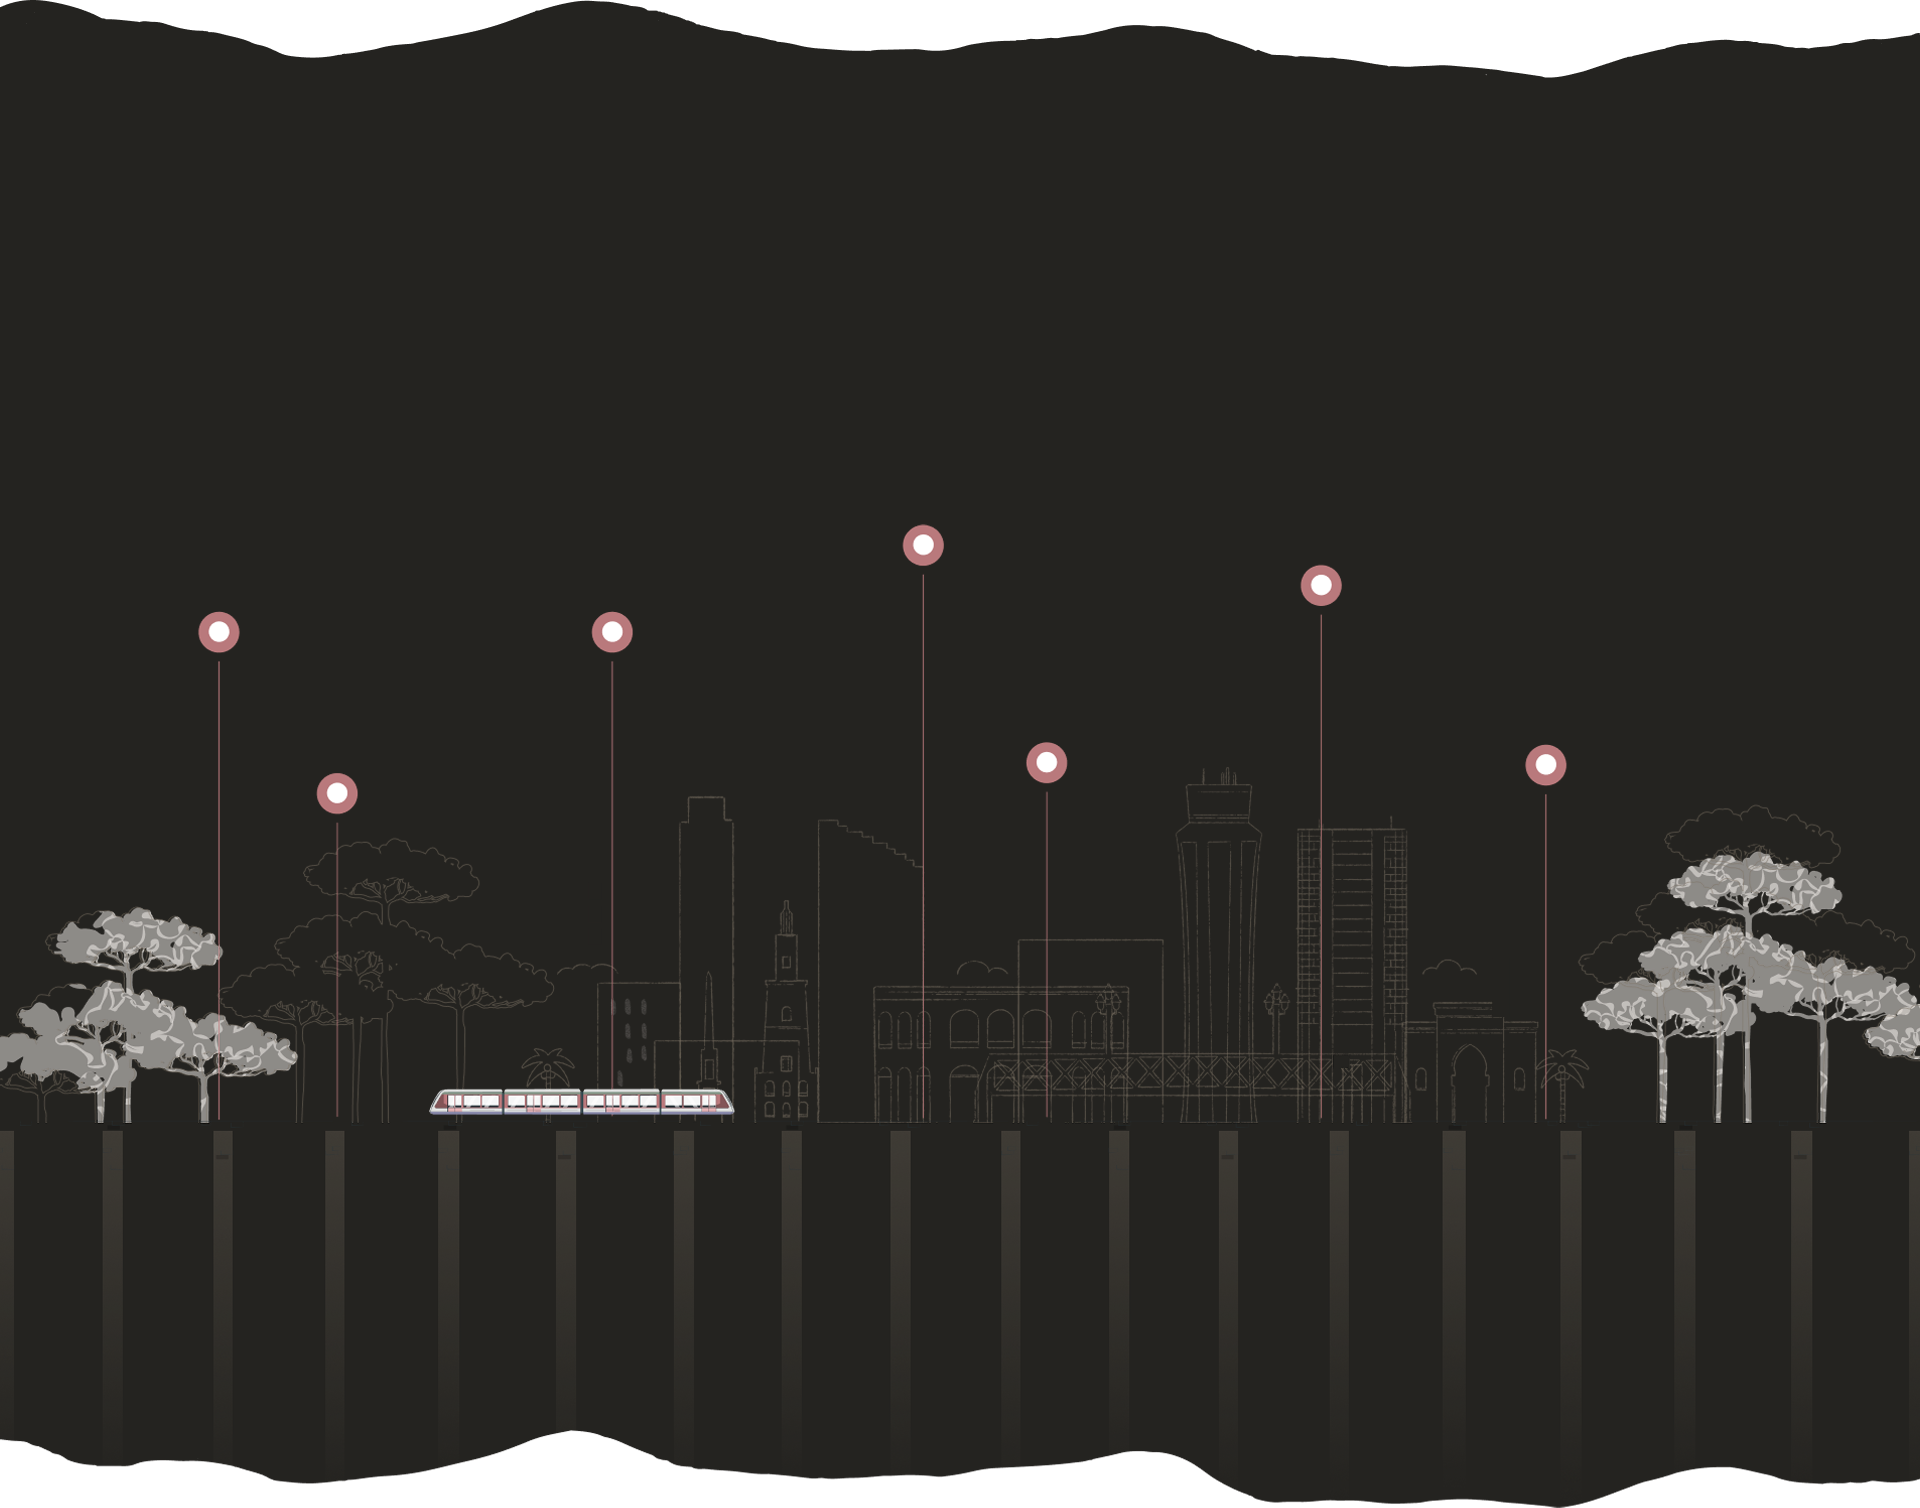
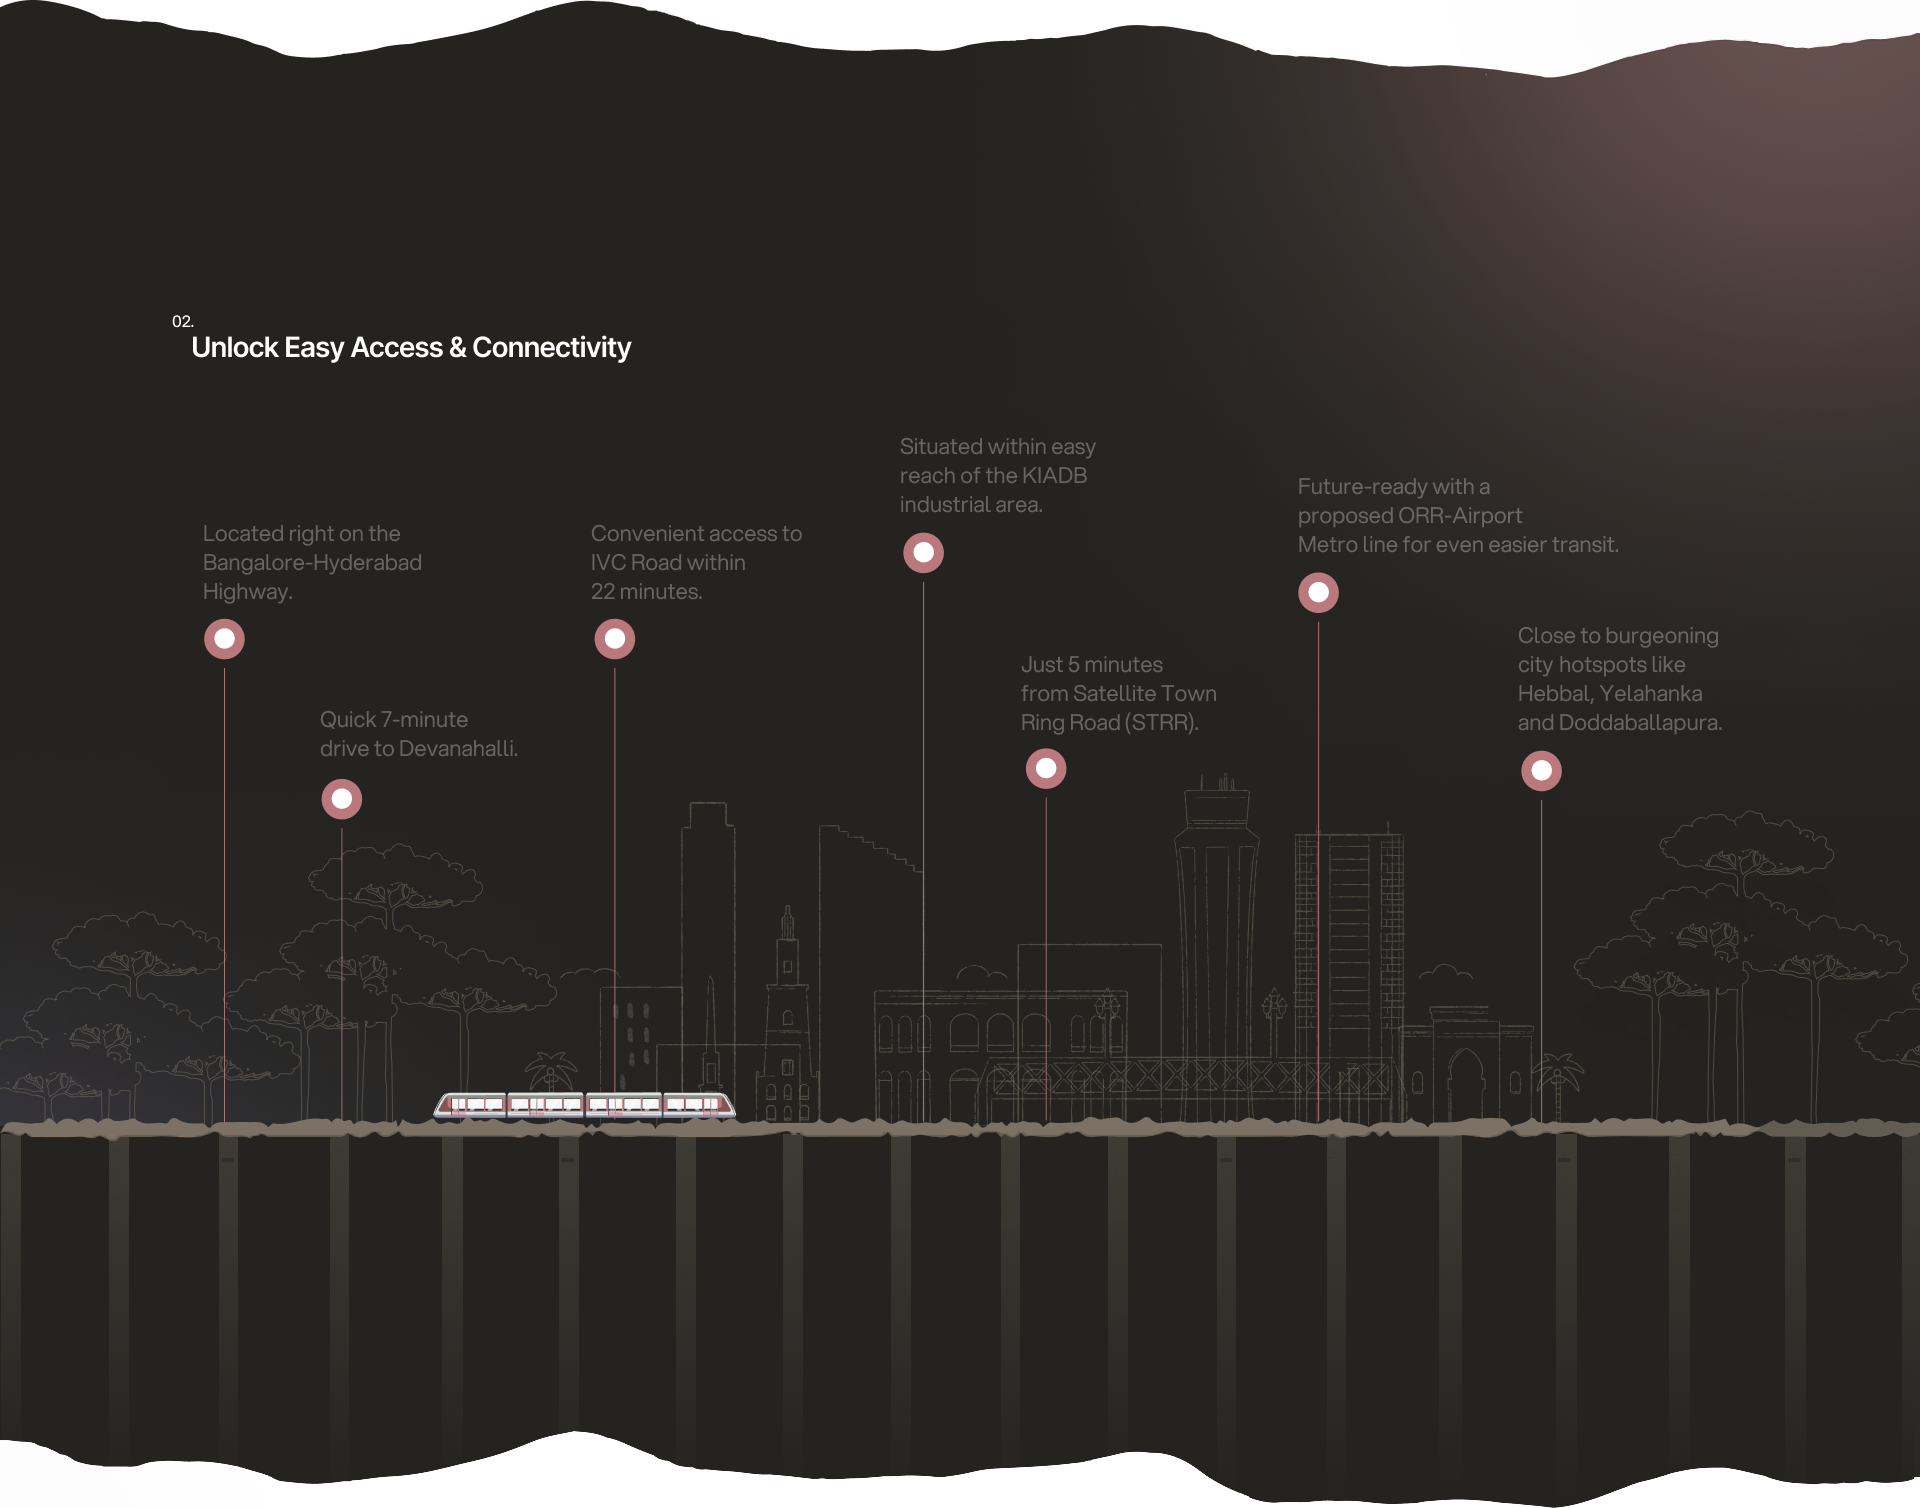
location page done

diff --git a/src/pages/Location.jsx b/src/pages/Location.jsx
@@ -6,6 +6,8 @@ import retail from "../assets/retail.png"
 import health from "../assets/health.png"
 import arrow from "../assets/arrow-health.svg"
 import school from "../assets/school.png"
+import easyBanner from "../assets/easybanner.png"
+import nearby from "../assets/nearby.png"
 import "../css/location.css"
 
 const Location = () => {
@@ -17,7 +19,7 @@ const Location = () => {
       <section id="nearby" className="common-section">
         <div className="container">
           <div className="nearby-container">
-            <h2 className="common-heading-2 inter-semi position-relative">Nearby Sites</h2>
+            <h2 className="common-heading-1 inter-semi position-relative">Nearby Sites</h2>
             <div className="site-container">
               <div className="row">
                 <div className="col-6">
@@ -54,7 +56,7 @@ const Location = () => {
                     </div>
                   </div>
                 </div>
-                <div className="col-6 p-0">
+                <div className="col-6">
                   <div className="site-right d-flex flex-column">
                     <div className="site-info d-flex">
                       <img src={health} alt="health" className="img-fluid" />
@@ -62,10 +64,10 @@ const Location = () => {
                         <h3 className="inter-semi common-heading-1">Healthcare / 5 MIN</h3>
                         <p className="aspekta-reg text-uppercase m-0" >Akash Hospital - 15 min</p>
                         <a href="#" className="aspekta-reg text-uppercase m-0">Bangalore Baptist Hospital - 12 min
-                        <img src={arrow} alt="arrow" className="arrow img-fluid" />
+                          <img src={arrow} alt="arrow" className="arrow img-fluid" />
                         </a>
                         <p className="aspekta-reg text-uppercase m-0">
-                        Omega Multispecialty Hospital - 35 min
+                          Omega Multispecialty Hospital - 35 min
                         </p>
                         <p className="aspekta-reg text-uppercase m-0">Manipal Northside Hospital - 37 min</p>
                       </div>
@@ -78,7 +80,7 @@ const Location = () => {
                         <p className="aspekta-reg text-uppercase m-0">Oxford English School - 15 min
                         </p>
                         <p className="aspekta-reg text-uppercase m-0">
-                        Nagarjuna College of Engineering - 20 min
+                          Nagarjuna College of Engineering - 20 min
                         </p>
                         <p className="aspekta-reg text-uppercase m-0">Harrow International School - 20 min</p>
                       </div>
@@ -93,9 +95,82 @@ const Location = () => {
       </section>
 
       <section id="easy-access" className="common-section">
-        <div className="container-fluid">
-          <div className="easy-container">
+        <img src={easyBanner} alt="bg-img" className="img-fluid" />
+      </section>
 
+      <section id="invest" className="common-section">
+        <div className="container">
+          <div className="invest-container">
+            <div className="row">
+              <div className="col-4">
+                <div className="invest-left">
+                  <h2 className="common-heading-1 inter-semi position-relative">Why invest in North Bangalore?</h2>
+
+                  <div className="why-invest">
+                    <h3 className="common-heading-2 aspekta-aspekta-semi text-color-7 position-relative">Current Infrastructure</h3>
+                    <ul className="m-0 p-0 why-invest-ul aspekta-reg">
+                      <li>
+                        <img src={plane} alt="plane" className="img-fluid" />
+                        <span>Kempegowda International Airport</span>
+                      </li>
+                      <li>
+                        <img src={it} alt="it" className="img-fluid" />
+                        <span>7+ IT Parks</span>
+                      </li>
+                      <li>
+                        <img src={health} alt="health" className="img-fluid" />
+                        <span>5+ Recognized Hospitals</span>
+                      </li>
+                      <li>
+                        <img src={retail} alt="retail" className="img-fluid" />
+                        <span>12+ Retail & Recreation Centres</span>
+                      </li>
+                      <li>
+                        <img src={school} alt="school" className="img-fluid" />
+                        <span>10+ Educational Institutions</span>
+                      </li>
+                    </ul>
+
+                    <h3 className="common-heading-2 aspekta-aspekta-semi text-color-7 position-relative">Future Development</h3>
+                    <ul className="m-0 p-0 why-invest-ul aspekta-reg">
+                      <li>
+                        <img src={it} alt="it" className="img-fluid" />
+                        <span>Devanahalli Business Park (408 acres)</span>
+                      </li>
+                      <li>
+                        <img src={health} alt="health" className="img-fluid" />
+                        <span>KIADB Aerospace Park</span>
+                      </li>
+                      <li>
+                        <img src={it} alt="it" className="img-fluid" />
+                        <span>IFCI Financial District</span>
+                      </li>
+                      <li>
+                        <img src={it} alt="it" className="img-fluid" />
+                        <span>BIAL IT Investment Region (120,000 acres)</span>
+                      </li>
+                      <li>
+                        <img src={retail} alt="retail" className="img-fluid" />
+                        <span>Bellary Road Expansion (6 to 8 lanes)</span>
+                      </li>
+                      <li>
+                        <img src={plane} alt="plane" className="img-fluid" />
+                        <span>KIA Infrastructural Upgrade</span>
+                      </li>
+                      <li>
+                        <img src={health} alt="health" className="img-fluid" />
+                        <span>Nano Park</span>
+                      </li>
+                    </ul>
+                  </div>
+                </div>
+              </div>
+              <div className="col-8">
+                <div className="invest-right">
+                  <img src={nearby} alt="nearby-img" className="img-fluid" />
+                </div>
+              </div>
+            </div>
           </div>
         </div>
       </section>

diff --git a/src/css/location.css b/src/css/location.css
@@ -5,9 +5,13 @@
 .nearby-container h2::before{
     content: "01.";
     position: absolute;
-    font-size: 12px;
+    font-size: 14px;
     top: -13px;
-    left: -15px;
+    left: -22px;
+}
+
+.site-container{
+    margin-top: 50px;
 }
 
 .site-info{
@@ -50,13 +54,42 @@
     border-radius: 50px;
 }
 
-#easy-access{
-    background: url("../assets/easybanner.png");
-    background-size: cover;
-    height: 100vh;
+.invest-container h2::before{
+    content: "03.";
+    position: absolute;
+    font-size: 14px;
+    top: -13px;
+    left: -22px;
 }
 
-.access-container{
-    top: 0;
+.why-invest h3{
+    margin: 30px 0 25px 0;
+}
+
+.why-invest h3::after{
+    content: "";
+    position: absolute;
     left: 0;
+    bottom: -6px;
+    width: 12%;
+    height: 2px;
+    background-color: #00000033;
+}
+
+.why-invest-ul{
+    color: rgba(148, 143, 135, 0.8);
+}
+
+.why-invest-ul li{
+    margin-bottom: 10px;
+    font-size: 14px;
+}
+
+.why-invest-ul li img{
+    width: 20px;
+    margin-right: 13px;
+}
+
+.invest-right img{
+    width: 700px;
 }

diff --git a/src/css/common.css b/src/css/common.css
@@ -108,7 +108,7 @@ button {
 }
 
 .bg-color-5 {
-  background-color: #B57878;
+  background-color: #b578784D;
 }
 
 .bg-color-6 {
